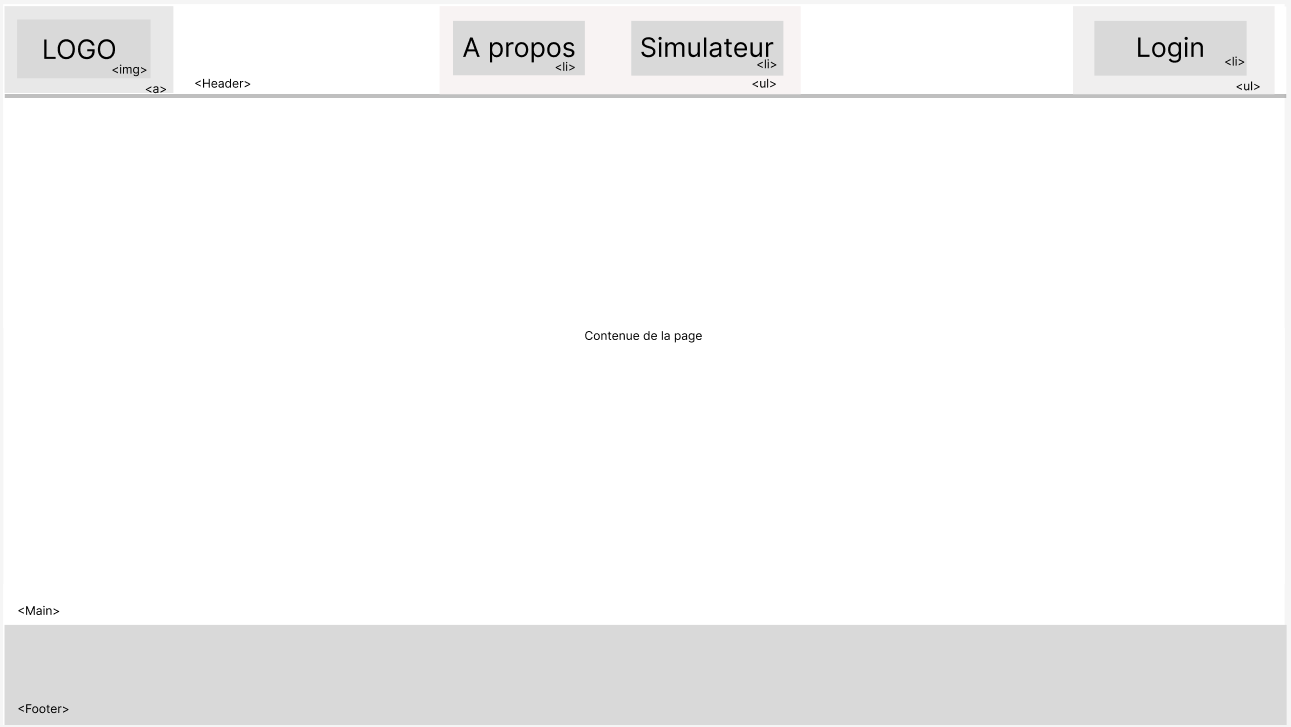
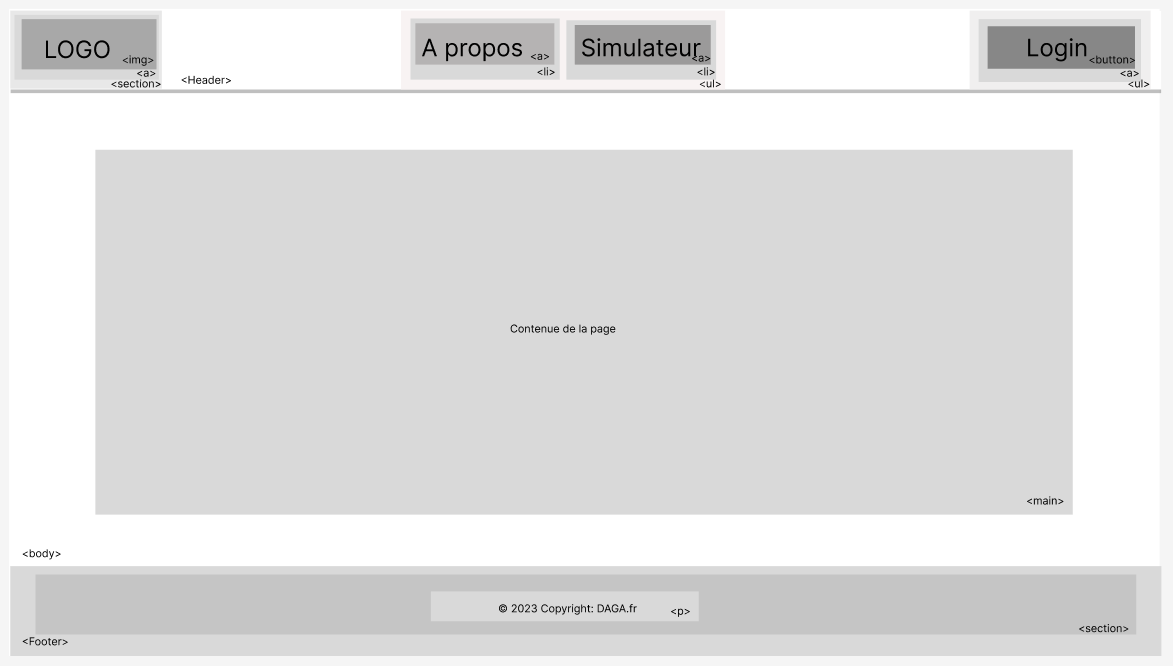
0.3.5

diff --git a/index.html b/index.html
@@ -25,7 +25,7 @@
             <li><a href="simulateur.html" class="nav-link px-3 link-dark">Simulateur</a></li>
         </ul>
         <ul class="text-end d-flex justify-content-center mx-3">
-            <a href="login.html">
+            <a href="contact.html">
             <button class="btn btn-dark me-3 mt-3">Contacter</button>
             </a>
         </ul>
@@ -35,7 +35,7 @@
         <h1 class="h1 text-center py-4">A propos</h1>
         <p class="lead text-center mx-xxl-10 mx-xl-7.5 mx-lg-6 mx-md-5 mx-4 px-0">Bienvenue chez DAGA, votre partenaire informatique de confiance. Depuis notre création, nous nous engageons à fournir à nos clients des solutions informatiques efficaces et innovantes pour répondre à leurs besoins en constante évolution. Nous sommes fiers de notre approche personnalisée et collaborative, qui nous permet de créer des solutions sur mesure qui répondent à leurs exigences uniques. Chez DAGA, nous sommes passionnés par l'informatique et nous nous efforçons constamment de rester à la pointe de la technologie. Contactez-nous dès aujourd'hui pour discuter de vos besoins informatiques.</p>
         <ul class="text-center justify-content-center px-0">
-            <a href="login.html">
+            <a href="contact.html">
                 <button  class="btn btn-lg btn-secondary my-4 me-2">Contacter</button>
             </a>
             <a href="simulateur.html">

diff --git a/simulateur.html b/simulateur.html
@@ -25,7 +25,7 @@
             <li><a href="simulateur.html" class="nav-link px-3 link-dark">Simulateur</a></li>
         </ul>
         <ul class="text-end d-flex justify-content-center mx-3">
-            <a href="login.html">
+            <a href="contact.html">
             <button class="btn btn-dark me-3 mt-3">Contacter</button>
             </a>
         </ul>
